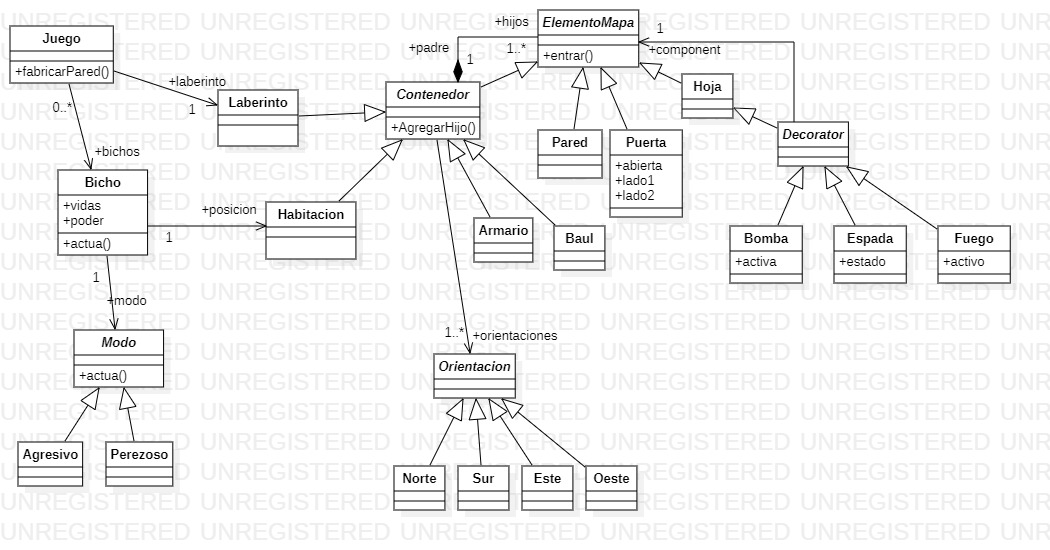
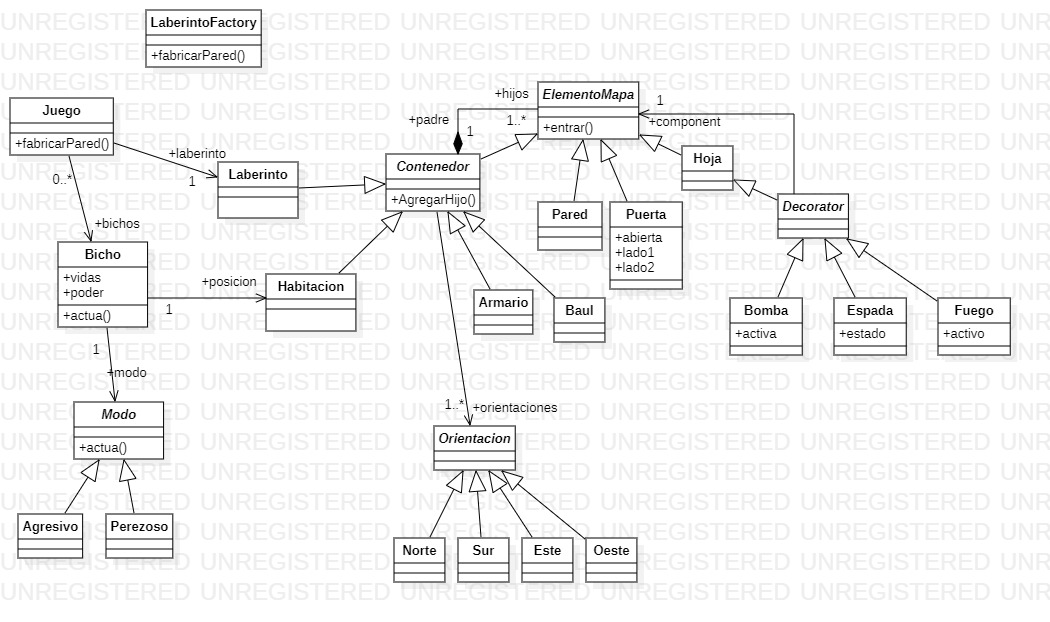
Impementación del AbstractFactory para una factoria igual

Changed region(s): [[0.0, 0.0, 0.9752, 0.9582]]

diff --git a/Model/Juego.py b/Model/Juego.py
@@ -10,6 +10,7 @@ from Este import Este
 from Baul import Baul
 from Espada import Espada
 from Fuego import Fuego
+from AbstractFactory.LaberintoFactory import LaberintoFactory
 from Norte import Norte
 from Oeste import Oeste
 from Perezoso import Perezoso
@@ -73,6 +74,12 @@ class Juego:
         arm.ponerEnElemento(self.fabricarEste(),self.fabricarPared())
         arm.ponerEnElemento(self.fabricarOeste(),self.fabricarPared())
         arm.ponerEnElemento(self.fabricarSur(),self.fabricarPared())
+        arm.agregarOrientacion(self.fabricarNorte())
+        arm.agregarOrientacion(self.fabricarEste())
+        arm.agregarOrientacion(self.fabricarOeste())
+        arm.agregarOrientacion(self.fabricarSur())
+        puerta = self.fabricarPuerta(arm,unContenedor)
+        arm.ponerEnElemento(self.fabricarEste(),puerta)
         unContenedor.agregarHijo(arm)
 
     def fabricarBaul(self):
@@ -85,6 +92,12 @@ class Juego:
         baul.ponerEnElemento(self.fabricarOeste(),self.fabricarPared())
         baul.ponerEnElemento(self.fabricarSur(),self.fabricarPared())
         baul.agregarHijo(contenido)
+        baul.agregarOrientacion(self.fabricarNorte())
+        baul.agregarOrientacion(self.fabricarEste())
+        baul.agregarOrientacion(self.fabricarOeste())
+        baul.agregarOrientacion(self.fabricarSur())
+        puerta = self.fabricarPuerta(baul,unContenedor)
+        baul.ponerEnElemento(self.fabricarEste(),puerta)
         unContenedor.agregarHijo(baul)
         
 
@@ -403,6 +416,7 @@ class Juego:
         return self.laberinto.obtenerHabitacion(num)
     
     def laberinto4Hab2baules(self):
+        print("\n--- LABERINTO 4 HABITACIONES y 2 BAÚLES --")
         self.laberinto = self.fabricarLaberinto()
         hab1 = self.fabricarHabitacion(1)
         hab2 = self.fabricarHabitacion(2)
@@ -439,19 +453,66 @@ class Juego:
         print(juego)
         print("------------------------------------------------")
 
-# juego = Juego()
-# juego.laberinto4Hab4Arm4Bombas4BichosFM()
-# juego.abrirPuertas()
-# bicho = juego.bichos[0]
-# bicho.actua()
-# print(bicho)
+    def laberinto4Hab4Arm4Bombas4BichosAF(self,unAF):
+        print("\n--- LABERINTO 4 HABITACIONES, 4 ARMARIOS, 4 BOMBAS y 4 BICHOS (ABSTRACT FACTORY)--")
+        self.laberinto = unAF.fabricarLaberinto()
+        hab1 = unAF.fabricarHabitacion(1)
+        hab2 = unAF.fabricarHabitacion(2)
+        hab3 = unAF.fabricarHabitacion(3)
+        hab4 = unAF.fabricarHabitacion(4)
+
+        #Unica modificacion para añadir 4 armarios al laberinto
+        unAF.fabricarArmarioEn(hab1,1)
+        unAF.fabricarArmarioEn(hab2,2)
+        unAF.fabricarArmarioEn(hab3,3)
+        unAF.fabricarArmarioEn(hab4,4)
+
+        puerta12 = unAF.fabricarPuerta(hab1,hab2)
+        puerta13 = unAF.fabricarPuerta(hab1,hab3)
+        puerta24 = unAF.fabricarPuerta(hab2,hab4)
+        puerta34 = unAF.fabricarPuerta(hab3,hab4)
+
+        hab1.ponerEnElemento(unAF.fabricarSur(),puerta12)
+        hab2.ponerEnElemento(unAF.fabricarNorte(),puerta12)
+
+        hab1.ponerEnElemento(unAF.fabricarEste(),puerta13)
+        hab3.ponerEnElemento(unAF.fabricarOeste(),puerta13)
+
+        hab3.ponerEnElemento(unAF.fabricarSur(),puerta34)
+        hab4.ponerEnElemento(unAF.fabricarNorte(),puerta34)
+
+        hab2.ponerEnElemento(unAF.fabricarEste(),puerta24)
+        hab4.ponerEnElemento(unAF.fabricarOeste(),puerta24)
+
+        hab1.agregarHijo(unAF.fabricarBomba())
+        hab2.agregarHijo(unAF.fabricarBomba())
+        hab3.agregarHijo(unAF.fabricarBomba())
+        hab4.agregarHijo(unAF.fabricarBomba())
+
+        b1 = unAF.fabricarBichoAgresivoPosicion(hab1)
+        b2 = unAF.fabricarBichoPerezosoPosicion(hab2)
+        b3 = unAF.fabricarBichoAgresivoPosicion(hab3)
+        b4 = unAF.fabricarBichoPerezosoPosicion(hab4)
+
+        self.agregarBicho(b1)
+        self.agregarBicho(b2)
+        self.agregarBicho(b3)
+        self.agregarBicho(b4)
+
+        self.laberinto.agregarHabitacion(hab1)
+        self.laberinto.agregarHabitacion(hab2)
+        self.laberinto.agregarHabitacion(hab3)
+        self.laberinto.agregarHabitacion(hab4)
+        print(juego)
+        print("------------------------------------------------")
+    
 
        
 
 # PLAYGROUND
 while True:
     juego = Juego()
-    opcion = input("¿Qué opción quieres elegir?\n1. Laberinto 2 habitaciones\n2. EJERCICIO 1: Laberinto 2 habitaciones (Factory Method)\n3. Laberinto 2 habitaciones (FM & Decorator)\n4. Laberinto 4 habitaciones y 4 bichos\n5. Laberinto 4 habitaciones, 4 armarios y 4 bichos\n6. Laberinto 4 habitaciones,4 armarios, 4 bombas y 4 bichos\n7. EJERCICIO 2 Laberinto 4 habitaciones y 2 baúles\n\n")
+    opcion = input("¿Qué opción quieres elegir?\n1. Laberinto 2 habitaciones\n2. EJERCICIO 1: Laberinto 2 habitaciones (Factory Method)\n3. Laberinto 2 habitaciones (FM & Decorator)\n4. Laberinto 4 habitaciones y 4 bichos\n5. Laberinto 4 habitaciones, 4 armarios y 4 bichos\n6. Laberinto 4 habitaciones,4 armarios, 4 bombas y 4 bichos\n7. EJERCICIO 2 Laberinto 4 habitaciones y 2 baúles\n8. Laberinto 4 habitaciones,4 armarios, 4 bombas y 4 bichos (ABSTRACT FACTORY)\n")
     try:
         opcion = int(opcion)
         switch = {
@@ -461,13 +522,18 @@ while True:
             4: juego.laberinto4Hab4BichosFM,
             5: juego.laberinto4Hab4Arm4BichosFM,
             6: juego.laberinto4Hab4Arm4Bombas4BichosFM,
-            7: juego.laberinto4Hab2baules
+            7: juego.laberinto4Hab2baules,
+            8: juego.laberinto4Hab4Arm4Bombas4BichosAF
         }
         resultado = switch.get(opcion, "\n\nEl carácter ingresado no es correcto.\n\n")
         if resultado == "\n\nEl carácter ingresado no es correcto.\n\n":
             print(resultado)
         else:
-            resultado()
+            if opcion == 8:
+                af = LaberintoFactory()
+                resultado(af)
+            else:
+                resultado()
     except ValueError:
         print("\n\nNo se admiten letras ni otro carácter fuera del rango.\n\n")
 

diff --git a/Model/AbstractFactory/LaberintoFactory.py b/Model/AbstractFactory/LaberintoFactory.py
@@ -1,0 +1,146 @@
+from Agresivo import Agresivo
+from Armario import Armario
+from Baul import Baul
+from Bicho import Bicho
+from Bomba import Bomba
+from Espada import Espada
+from Este import Este
+from Fuego import Fuego
+from Habitacion import Habitacion
+from Laberinto import Laberinto
+from Norte import Norte
+from Oeste import Oeste
+from Pared import Pared
+from Perezoso import Perezoso
+from Puerta import Puerta
+from Sur import Sur
+
+
+class LaberintoFactory():
+    def __init__(self):
+        pass
+
+    def fabricarArmario(self):
+        return Armario()
+    
+    def fabricarArmarioEn(self,unContenedor,num):
+        arm = Armario(num)
+        arm.ponerEnElemento(self.fabricarNorte(),self.fabricarPared())
+        arm.ponerEnElemento(self.fabricarEste(),self.fabricarPared())
+        arm.ponerEnElemento(self.fabricarOeste(),self.fabricarPared())
+        arm.ponerEnElemento(self.fabricarSur(),self.fabricarPared())
+        arm.agregarOrientacion(self.fabricarNorte())
+        arm.agregarOrientacion(self.fabricarEste())
+        arm.agregarOrientacion(self.fabricarOeste())
+        arm.agregarOrientacion(self.fabricarSur())
+        puerta = self.fabricarPuerta(arm,unContenedor)
+        arm.ponerEnElemento(self.fabricarEste(),puerta)
+        unContenedor.agregarHijo(arm)
+
+    def fabricarBaul(self):
+        return Baul()
+    
+    def fabricarBaulEn(self,unContenedor,num,contenido):
+        baul = Baul(num)
+        baul.ponerEnElemento(self.fabricarNorte(),self.fabricarPared())
+        baul.ponerEnElemento(self.fabricarEste(),self.fabricarPared())
+        baul.ponerEnElemento(self.fabricarOeste(),self.fabricarPared())
+        baul.ponerEnElemento(self.fabricarSur(),self.fabricarPared())
+        baul.agregarHijo(contenido)
+        baul.agregarOrientacion(self.fabricarNorte())
+        baul.agregarOrientacion(self.fabricarEste())
+        baul.agregarOrientacion(self.fabricarOeste())
+        baul.agregarOrientacion(self.fabricarSur())
+        puerta = self.fabricarPuerta(baul,unContenedor)
+        baul.ponerEnElemento(self.fabricarEste(),puerta)
+        unContenedor.agregarHijo(baul)
+        
+
+
+    def fabricarBichoAgresivo(self):
+        bicho = Bicho()
+        bicho.modo = self.fabricarModoAgresivo()
+        bicho.vidas = 10
+        bicho.poder = 10
+        return bicho
+    
+    def fabricarBichoAgresivoPosicion(self,unaHabitacion):
+        bicho = Bicho()
+        bicho.modo = self.fabricarModoAgresivo()
+        bicho.vidas = 10
+        bicho.poder = 10
+        bicho.posicion = unaHabitacion
+        return bicho
+     
+    def fabricarBichoPerezoso(self):
+        bicho = Bicho()
+        bicho.modo = self.fabricarModoPerezoso()
+        bicho.vidas = 10
+        bicho.poder = 10
+        return bicho
+    
+    def fabricarBichoPerezosoPosicion(self,unaHabitacion):
+        bicho = Bicho()
+        bicho.modo = self.fabricarModoPerezoso()
+        bicho.vidas = 10
+        bicho.poder = 10
+        bicho.posicion = unaHabitacion
+        return bicho
+    
+    def fabricarBomba(self):
+        return Bomba()
+    
+    def fabricarEste(self):
+        return Este()
+    
+    def fabricarEspada(self):
+        return Espada()
+    
+    def fabricarFuego(self):
+        return Fuego()
+    
+    def fabricarHabitacion(self,num):
+        hab = Habitacion(num)
+        hab.ponerEnElemento(self.fabricarNorte(),self.fabricarPared())
+        hab.ponerEnElemento(self.fabricarEste(),self.fabricarPared())
+        hab.ponerEnElemento(self.fabricarOeste(),self.fabricarPared())
+        hab.ponerEnElemento(self.fabricarSur(),self.fabricarPared())
+        hab.agregarOrientacion(self.fabricarNorte())
+        hab.agregarOrientacion(self.fabricarEste())
+        hab.agregarOrientacion(self.fabricarOeste())
+        hab.agregarOrientacion(self.fabricarSur())
+        return hab
+    
+    def fabricarLaberinto(self):
+        return Laberinto()
+    
+    def fabricarModoAgresivo(self):
+        return Agresivo()
+    
+    def fabricarModoPerezoso(self):
+        return Perezoso()
+   
+    def fabricarNorte(self):
+        return Norte()
+ 
+    def fabricarOeste(self):
+        return Oeste()
+    
+    def fabricarPared(self):
+        return Pared()
+    
+    def fabricarPuerta(self,unaHab:Habitacion,otraHab:Habitacion):
+        puerta = Puerta()
+        puerta.lado1 = unaHab
+        puerta.lado2 = otraHab
+        return puerta
+    
+    def fabricarPuertaEstado(self,unaHab:Habitacion,otraHab:Habitacion,estado:bool):
+        puerta = Puerta()
+        puerta.lado1 = unaHab
+        puerta.lado2 = otraHab
+        puerta.abierta = estado
+        return puerta
+    
+    def fabricarSur(self):
+        return Sur()

diff --git a/README.md b/README.md
@@ -13,5 +13,6 @@
 | Composite        | Patrón que permite construir objetos complejos a partir de objetos más simples, formando una estructura en árbol. |
 | Iterator         | Patrón que permite recorrer los elementos de una colección de manera secuencial sin exponer su representación interna. |
 | Template Method  | Patrón que define el esqueleto de un algoritmo en una operación, dejando que las subclases definan algunos de los pasos. |
+| Abstract Factory | Patrón que proporciona una interface para crear familias de objetos relacionados o dependientes sin especificar sus clases concretas. |
  
 <img src="https://github.com/alenavarroxp/laberintoPython/blob/main/DesignDiagram/DiagramaDise%C3%B1o.jpg"/>
